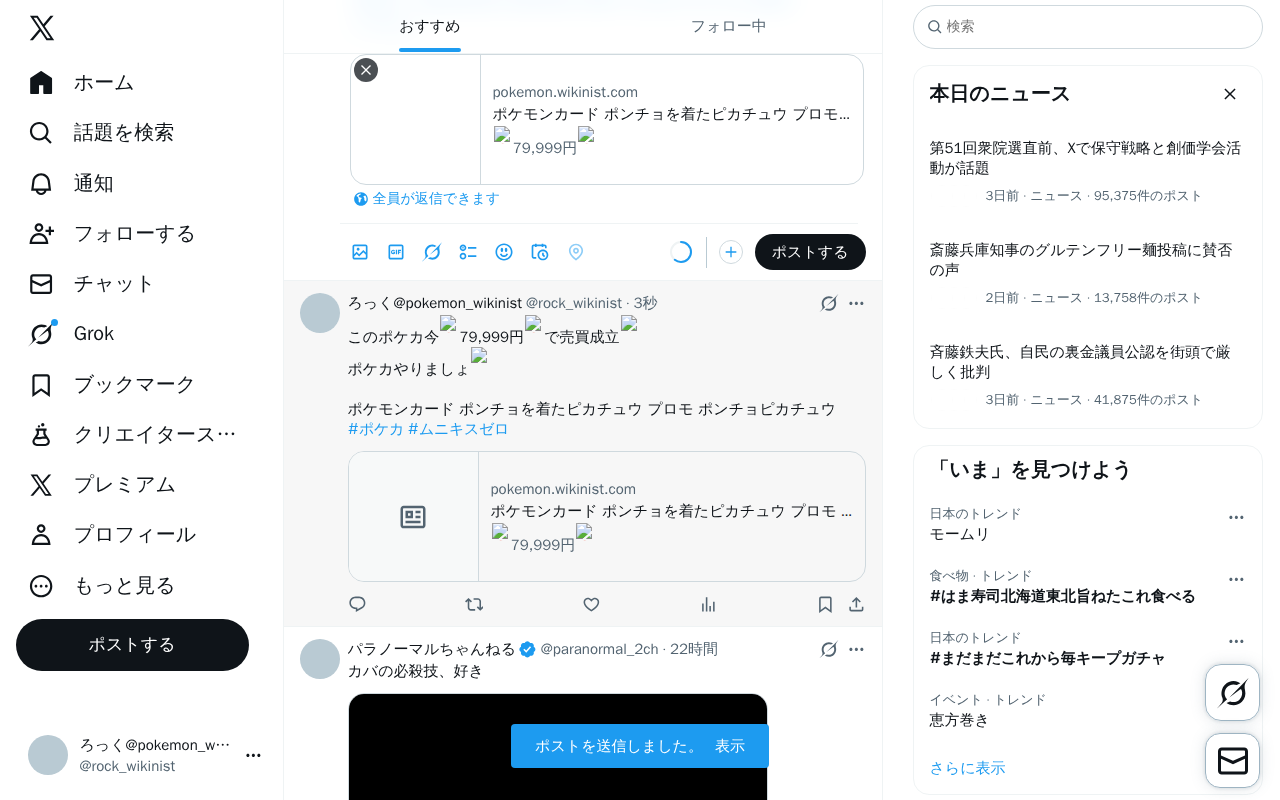
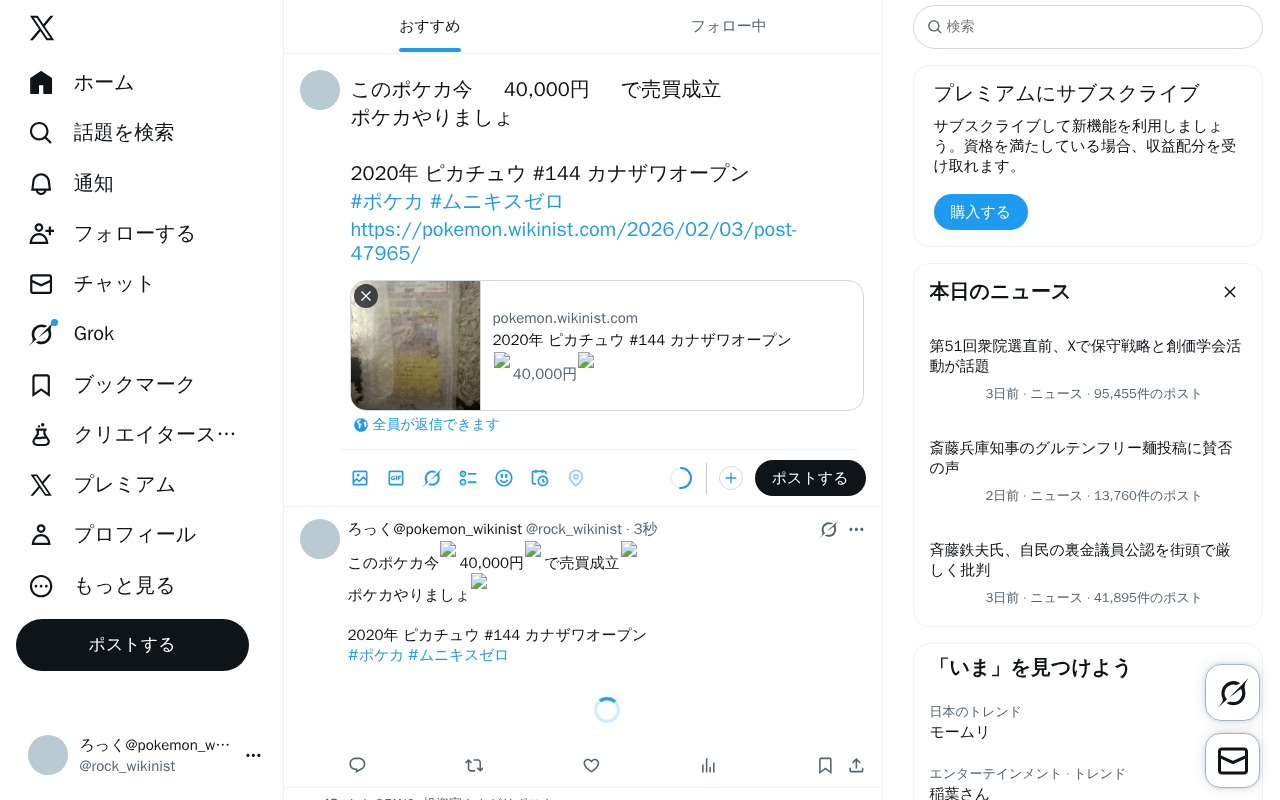
update system data

diff --git a/content/posts/test-pokemon-20260203-121926.md b/content/posts/test-pokemon-20260203-121926.md
@@ -1,0 +1,37 @@
+---
+title: "2020年 ピカチュウ #144 カナザワオープン"
+date: 2026-02-03T12:19:26+09:00
+description: "🔥40,000円🔥 メルカリで「2020年 ピカチュウ #144 カナザワオープン」が販売中！"
+amazon_url: "https://jp.mercari.com/item/m66449585918?afid=1391290753"
+categories: ["ポケモン"]
+tags: ["3万円以上", "ピカチュウ"]
+cover:
+  image: "https://static.mercdn.net/thumb/item/webp/m66449585918_1.jpg?1767955422"
+  hiddenInList: true
+  hiddenInSingle: true
+---
+
+<div class="image-and-buttons">
+    <div class="image-area" style="margin-bottom: 20px; text-align: center;">
+        <a href="https://jp.mercari.com/item/m66449585918?afid=1391290753" target="_blank" rel="nofollow sponsored noopener noreferrer">
+            <img src="https://static.mercdn.net/thumb/item/webp/m66449585918_1.jpg?1767955422" alt="40,000" style="max-width: 100%; border-radius: 8px; border: 1px solid #ddd;" />
+        </a>
+        <br><span style="font-size:1.5em;color:red;font-weight:bold;">🔥40,000円🔥</span>
+    </div>
+    <div class="link-buttons">
+        <a href="https://jp.mercari.com/item/m66449585918?afid=1391290753" target="_blank" rel="nofollow sponsored noopener noreferrer">
+            💎 商品状態を見る
+        </a>
+        <a href="https://jp.mercari.com/search?afid=1391290753&category_id=1289&keyword=2020%E5%B9%B4%20%E3%83%94%E3%82%AB%E3%83%81%E3%83%A5%E3%82%A6%20%23144%20%E3%82%AB%E3%83%8A%E3%82%B6%E3%83%AF%E3%82%AA%E3%83%BC%E3%83%97%E3%83%B3" target="_blank" rel="nofollow sponsored noopener noreferrer">
+            🔍 類似商品を見る
+        </a>
+        <a href="https://jp.mercari.com/search?afid=1391290753&brand_id=&category_id=1289&color_id=&item_condition_id=&item_types=&keyword=2020%E5%B9%B4%20%E3%83%94%E3%82%AB%E3%83%81%E3%83%A5%E3%82%A6%20%23144%20%E3%82%AB%E3%83%8A%E3%82%B6%E3%83%AF%E3%82%AA%E3%83%BC%E3%83%97%E3%83%B3&order=desc&shipping_method=&shipping_payer_id=&size_id=&sort=created_time&status=sold_out%2Ctrading" target="_blank" rel="nofollow sponsored noopener noreferrer">
+            📈 価格推移・履歴を見る
+        </a>
+    </div>
+</div>
+
+<p style="font-size:1.0em;color:#555;line-height:1.6;">
+「2020年 ピカチュウ #144 カナザワオープン」はメルカリに出品されました！<br>
+最新のポケモン情報は当サイトで随時更新中です。
+</p>
